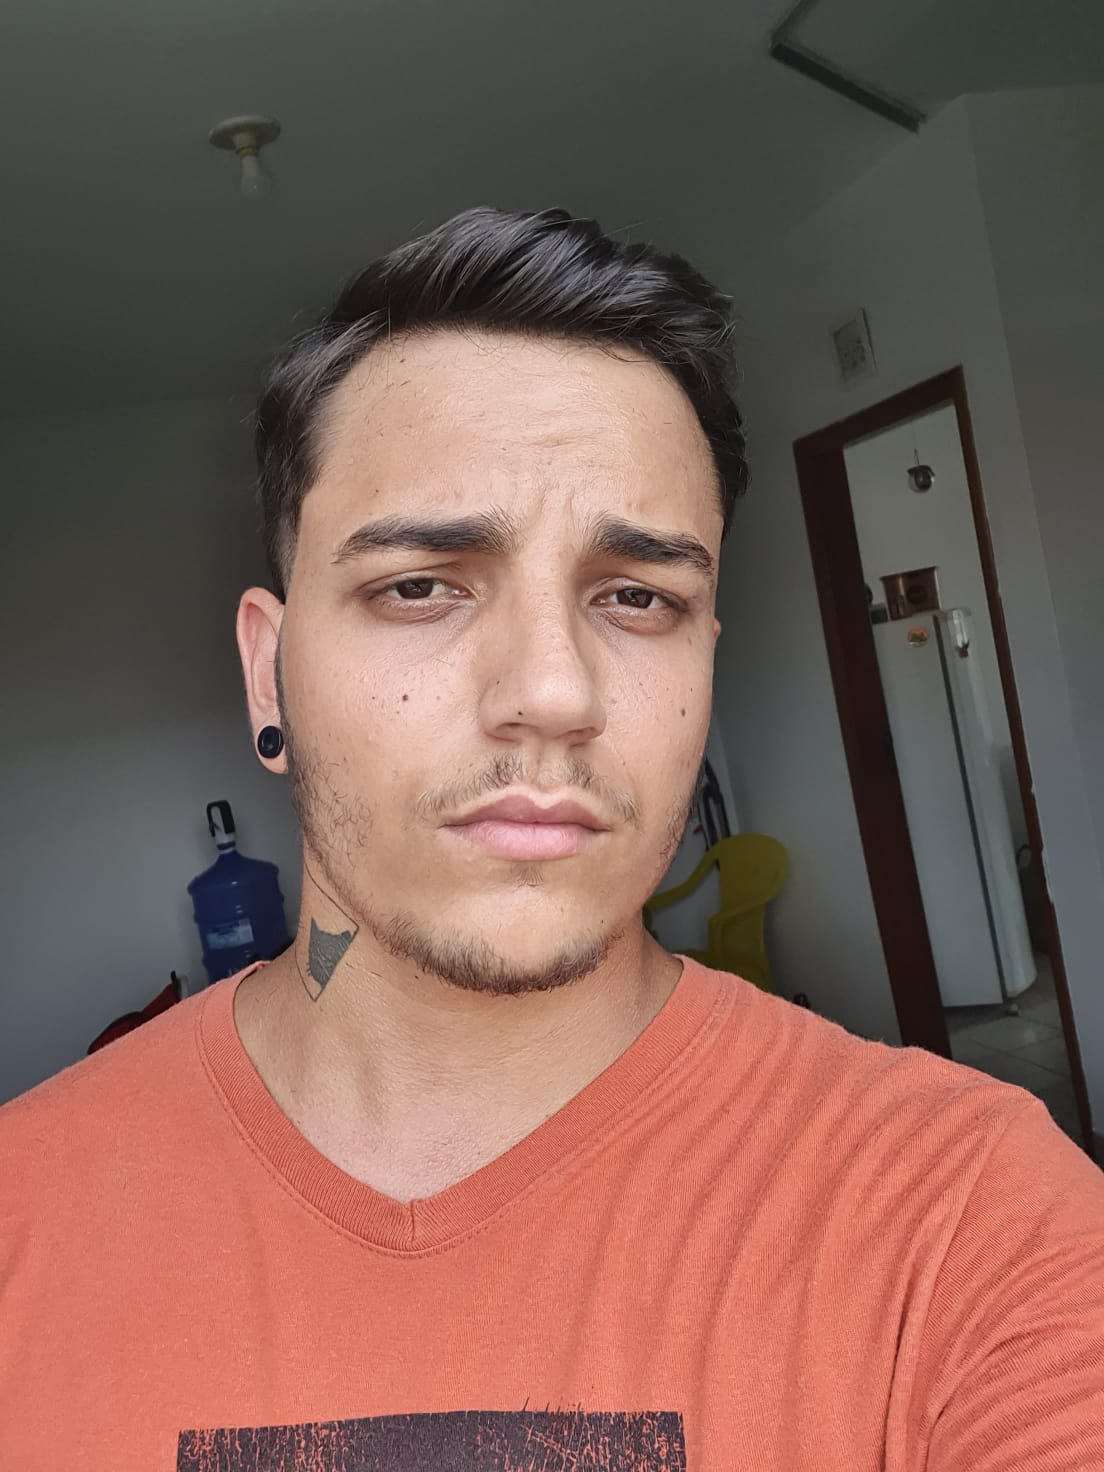
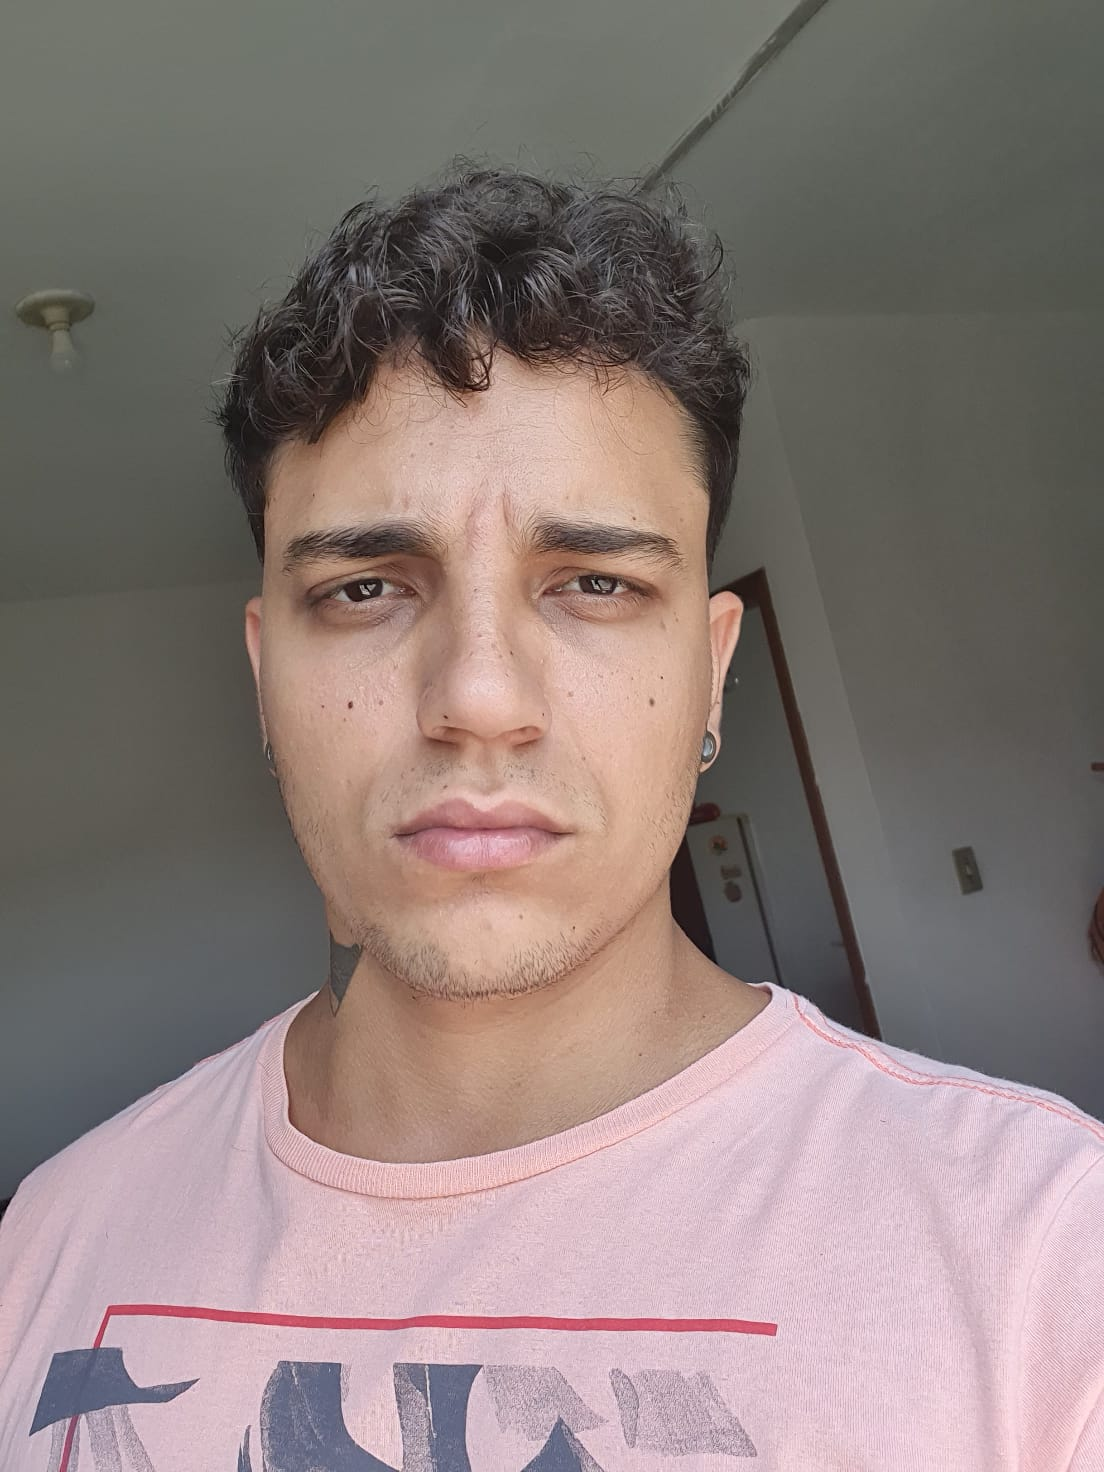
new article

diff --git a/people.html b/people.html
@@ -77,6 +77,22 @@
     <table style="width:100%; border:0;">
         <tr>
             <td style="width:20%; vertical-align: top; padding: 10px;">
+                <img src="students/Paulo.jpeg" alt="Chagas" class="person-photo">
+            </td>
+            <td style="width:80%; vertical-align: top; padding: 10px; font-family: 'Sarala', sans-serif; font-size: 18px; text-align: justify;">
+                <p>M.Sc. Paulo Soares</p>
+                <p>PhD Candidate (co-advisor)</p>
+                <p>Particle dynamics around asymmetrical bodies</p>
+                <p>2023-</p>
+                    
+            </td>
+        </tr>
+    </table>
+
+    
+    <table style="width:100%; border:0;">
+        <tr>
+            <td style="width:20%; vertical-align: top; padding: 10px;">
                 <img src="students/antonio.jpg" alt="antonio" class="person-photo">
             </td>
             <td style="width:80%; vertical-align: top; padding: 10px; font-family: 'Sarala', sans-serif; font-size: 18px; text-align: justify;">
@@ -104,23 +120,24 @@
         </tr>
     </table>
 
-        </div>
-
-    <h2>Former Students</h2>
     <table style="width:100%; border:0;">
         <tr>
             <td style="width:20%; vertical-align: top; padding: 10px;">
-                <img src="students/Paulo.jpeg" alt="Chagas" class="person-photo">
+                <img src="students/laura.jpg" alt="laura" class="person-photo">
             </td>
             <td style="width:80%; vertical-align: top; padding: 10px; font-family: 'Sarala', sans-serif; font-size: 18px; text-align: justify;">
-                <p>M.Sc. Paulo Soares</p>
-                <p>Master degree</p>
-                <p>Particle dynamics around asymmetrical bodies</p>
-                <p>2023-2025</p>
+                <p>Laura Araújo</p>
+                <p>Undergraduate Student</p>
+                <p>Wisdom gap for non-spherical objects</p>
+                <p>2026-</p>
                     
             </td>
         </tr>
     </table>
+    
+        </div>
+
+
 
         
         

diff --git a/gods.html b/gods.html
@@ -113,9 +113,21 @@
             <img src="https://orcid.org/sites/default/files/images/orcid_16x16.png" alt="ORCID" style="width:14px; height:14px;vertical-align: middle; margin-left: 6px;">
         </a>
            </li>
-    
+    <li>M. Sc. Paulo Soares<a href="https://orcid.org/0009-0009-5523-5759" target="_blank">
+            <img src="https://orcid.org/sites/default/files/images/orcid_16x16.png" alt="ORCID" style="width:14px; height:14px;vertical-align: middle; margin-left: 6px;">
+        </a>
+           </li>
+    <li>Dr. Bruno Chagas<a href="https://orcid.org/0000-0002-5960-6512" target="_blank">
+            <img src="https://orcid.org/sites/default/files/images/orcid_16x16.png" alt="ORCID" style="width:14px; height:14px;vertical-align: middle; margin-left: 6px;">
+        </a>
+           </li>    
 </ul>
-                
+
+<h2>Events</h2>
+    <ul>    
+      <li> <a href="https://sites.google.com/view/workshopsc/en" target="_blank">16-17 March 2026: Workshop on Circumplanetary Systems</a></li>
+              
+</ul>
     </main>
     
     <script src="navbar-loader.js"></script>